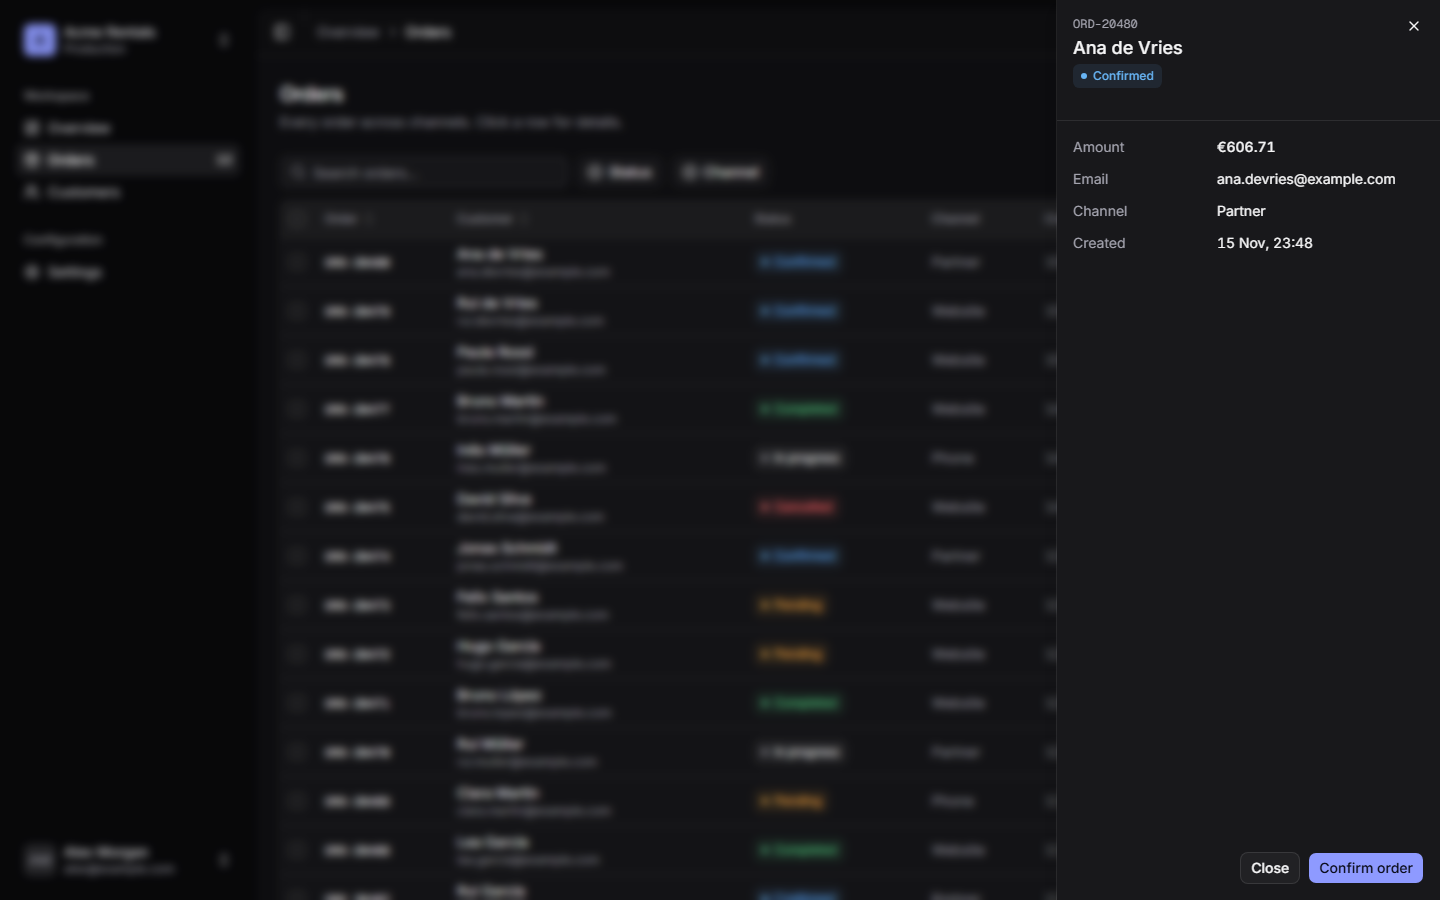
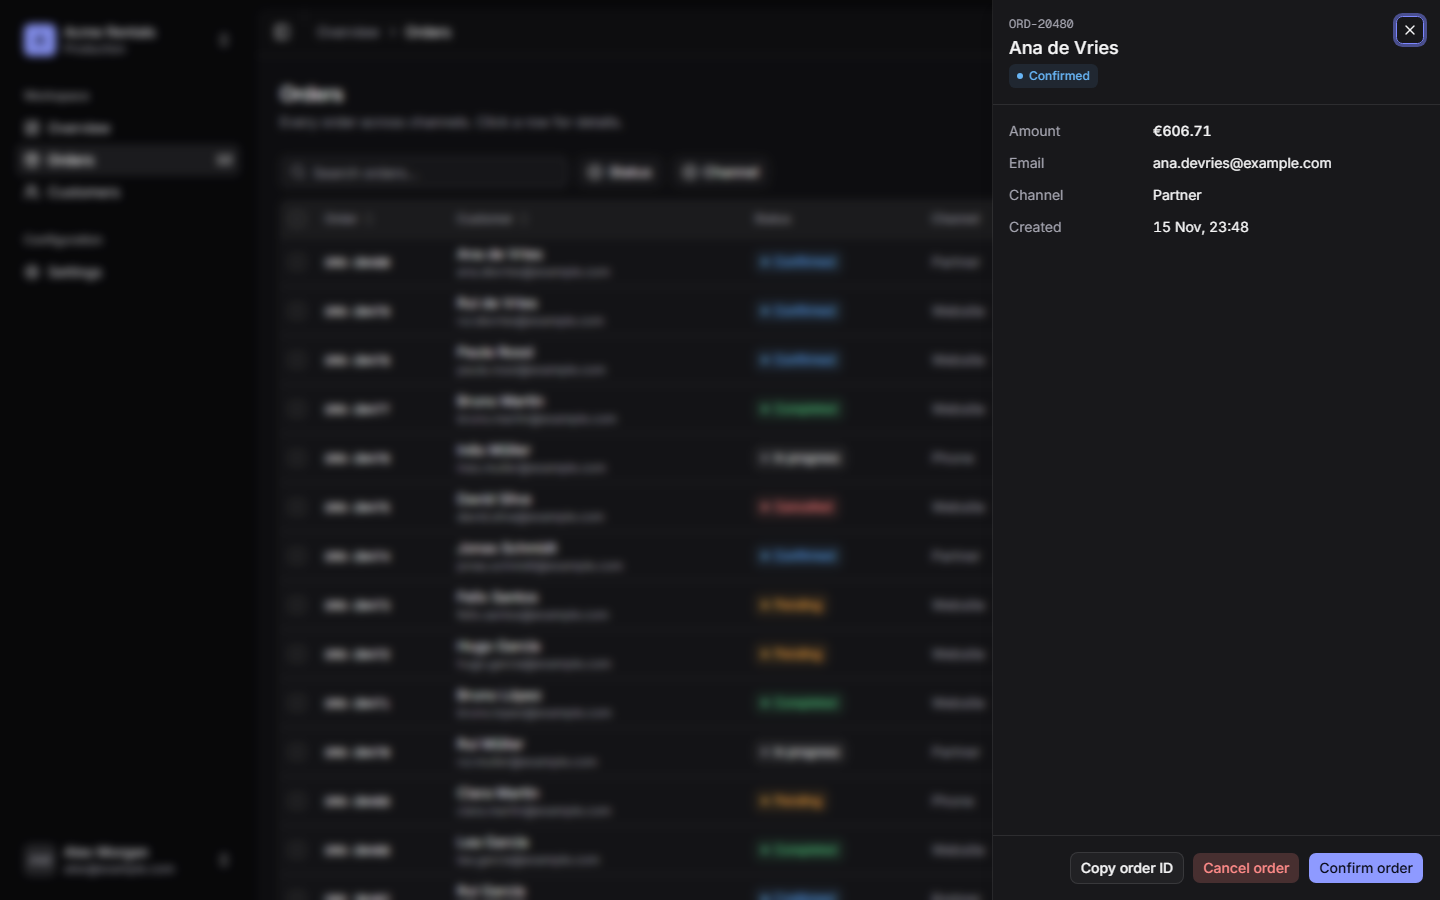
chore: release v0.2.0, screenshots in check:mobile, README for mobile, Labels and tag URL (#11)

diff --git a/tests/screenshots.spec.ts b/tests/screenshots.spec.ts
@@ -1,0 +1,94 @@
+import { expect, test, type Page } from "@playwright/test"
+
+const OUT = "docs/screenshots"
+const schemes = ["light", "dark"] as const
+
+// Waits for chart/sheet animations and web fonts so the captures are stable.
+async function settle(page: Page) {
+  await page.evaluate(() => document.fonts.ready)
+  await page.waitForTimeout(1000)
+}
+
+async function shot(page: Page, name: string, scheme: string) {
+  await settle(page)
+  await page.screenshot({ path: `${OUT}/${name}-${scheme}.png` })
+}
+
+for (const scheme of schemes) {
+  test.describe(`screenshots (${scheme})`, () => {
+    test.use({ colorScheme: scheme })
+
+    test.describe("Celular 375x812", () => {
+      test.use({ viewport: { width: 375, height: 812 } })
+
+      test(`mobile-overview-${scheme}`, async ({ page }) => {
+        await page.goto("/")
+        await expect(page.getByRole("heading", { level: 1 })).toBeVisible()
+        await shot(page, "mobile-overview", scheme)
+      })
+
+      test(`mobile-orders-${scheme}`, async ({ page }) => {
+        await page.goto("/orders")
+        await expect(page.getByRole("list", { name: "Orders" })).toBeVisible()
+        await shot(page, "mobile-orders", scheme)
+      })
+
+      test(`mobile-filters-${scheme}`, async ({ page }) => {
+        await page.goto("/orders")
+        await page.getByRole("button", { name: "Filters" }).click()
+        const panel = page.getByRole("dialog", { name: "Filters" })
+        await expect(panel).toHaveCSS("opacity", "1")
+        await panel.getByRole("checkbox", { name: /Completed/ }).check()
+        await shot(page, "mobile-filters", scheme)
+      })
+
+      test(`mobile-detail-${scheme}`, async ({ page }) => {
+        await page.goto("/orders")
+        await page.getByRole("list", { name: "Orders" }).getByRole("button").first().click()
+        await expect(page.getByRole("dialog")).toHaveCSS("opacity", "1")
+        await shot(page, "mobile-detail", scheme)
+      })
+
+      test(`mobile-new-order-${scheme}`, async ({ page }) => {
+        await page.goto("/orders/new")
+        await expect(page.getByRole("heading", { level: 1 })).toBeVisible()
+        await shot(page, "mobile-new-order", scheme)
+      })
+
+      test(`mobile-quick-order-${scheme}`, async ({ page }) => {
+        await page.goto("/quick-order")
+        await expect(page.getByRole("heading", { level: 1, name: "Choose customer" })).toBeVisible()
+        await shot(page, "mobile-quick-order", scheme)
+      })
+    })
+
+    test.describe("Desktop 1440x900", () => {
+      test.use({ viewport: { width: 1440, height: 900 } })
+
+      test(`overview-${scheme}`, async ({ page }) => {
+        await page.goto("/")
+        await expect(page.getByRole("heading", { level: 1 })).toBeVisible()
+        await shot(page, "overview", scheme)
+      })
+
+      test(`orders-${scheme}`, async ({ page }) => {
+        await page.goto("/orders")
+        await expect(page.getByRole("table", { name: "Orders" })).toBeVisible()
+        await shot(page, "orders", scheme)
+      })
+
+      test(`new-order-${scheme}`, async ({ page }) => {
+        await page.goto("/orders/new")
+        await expect(page.getByRole("heading", { level: 1 })).toBeVisible()
+        await shot(page, "new-order", scheme)
+      })
+
+      test(`order-sheet-${scheme}`, async ({ page }) => {
+        await page.goto("/orders")
+        await page.getByRole("table", { name: "Orders" }).getByRole("row").nth(1).click()
+        await expect(page.getByRole("dialog")).toHaveCSS("opacity", "1")
+        await shot(page, "order-sheet", scheme)
+      })
+    })
+  })
+}

diff --git a/README.md b/README.md
@@ -13,6 +13,41 @@ Origem: [Marcio-RF/algarve4all.com#31](https://github.com/Marcio-RF/algarve4all.
 | ![Orders claro](docs/screenshots/orders-light.png) | ![Orders escuro](docs/screenshots/orders-dark.png) |
 | ![Formulário claro](docs/screenshots/new-order-light.png) | ![Detalhe escuro](docs/screenshots/order-sheet-dark.png) |
 
+## No celular
+
+Abaixo de 768px (o **Celular**) o kit muda de forma: a tabela vira uma **Lista de cartões**, os filtros e a ordenação vão para um painel de baixo, o **Detalhe** abre em tela cheia, os **alvos de toque** passam a 44px e os campos a 16px (sem zoom no iOS). Tudo verificado a 375×812 pelo `pnpm check:mobile`, que também tira as capturas abaixo.
+
+| | Claro | Escuro |
+|---|---|---|
+| Overview | ![Overview claro no celular](docs/screenshots/mobile-overview-light.png) | ![Overview escuro no celular](docs/screenshots/mobile-overview-dark.png) |
+| Orders (Lista de cartões) | ![Orders claro no celular](docs/screenshots/mobile-orders-light.png) | ![Orders escuro no celular](docs/screenshots/mobile-orders-dark.png) |
+| Painel de Filtros | ![Filtros claro no celular](docs/screenshots/mobile-filters-light.png) | ![Filtros escuro no celular](docs/screenshots/mobile-filters-dark.png) |
+| Detalhe | ![Detalhe claro no celular](docs/screenshots/mobile-detail-light.png) | ![Detalhe escuro no celular](docs/screenshots/mobile-detail-dark.png) |
+| New order | ![New order claro no celular](docs/screenshots/mobile-new-order-light.png) | ![New order escuro no celular](docs/screenshots/mobile-new-order-dark.png) |
+| Quick order (Fluxo móvel) | ![Quick order claro no celular](docs/screenshots/mobile-quick-order-light.png) | ![Quick order escuro no celular](docs/screenshots/mobile-quick-order-dark.png) |
+
+### Blocos do celular
+
+- **`DataTable` + `DataTableToolbar`** (`@backoffice/data-table`): no celular a tabela é uma Lista de cartões. Cada coluna escolhe o seu lugar no cartão com `meta.mobile` (`"title"`, `"subtitle"`, `"status"` ou `"value"`); as colunas sem slot não aparecem. A `DataTableToolbar` mantém a pesquisa sempre visível e leva os filtros por faceta (`filters`) e o *Sort by* (`sortColumns`) para o painel **Filters**, que aplica as escolhas na hora e mostra "View N results". A partir de 768px volta aos chips, à densidade e às colunas.
+- **`DetailSheet`** (`@backoffice/data-table`): o Detalhe de um registo. Lateral a partir de 768px, tela cheia no celular. Compõe-se com `DetailSheetHeader`, `DetailSheetBody` e `DetailSheetFooter`.
+- **`MobileFlow`** (`@backoffice/mobile-flow`): o Fluxo móvel, um layout de tela cheia (`dvh`) sem sidebar para tarefas feitas no celular. Compõe-se com `MobileFlowHeader` (voltar, título do passo, slot à direita), `MobileFlowContent` (rola) e `MobileFlowActions` (barra de ação fixa em baixo, com a área segura). É só layout: o estado dos passos é da página. O exemplo está em *Quick order* (`@backoffice/examples`).
+
+## Rótulos
+
+Todo texto visível de um bloco vem de um objeto de **Rótulos** com valores padrão em inglês. Cada bloco aceita uma prop `labels` com substituições parciais, que se fundem com o padrão; o que não for passado fica como está:
+
+```tsx
+<DataTableToolbar
+  table={table}
+  density={density}
+  onDensityChange={setDensity}
+  search={{ label: "Pesquisar encomendas" }}
+  labels={{ filters: "Filtros", clear: "Limpar", showResults: (n) => `Ver ${n} resultados` }}
+/>
+```
+
+Os tipos e os padrões são exportados junto de cada bloco (`DataTableToolbarLabels` / `defaultDataTableToolbarLabels`, `DetailSheetLabels`, `MobileFlowLabels`, …). A página `/fixtures` mostra os blocos em português.
+
 ## Decisões
 
 | Tema | Decisão |
@@ -25,7 +60,7 @@ Origem: [Marcio-RF/algarve4all.com#31](https://github.com/Marcio-RF/algarve4all.
 | Navegação | Sidebar *inset* à esquerda que recolhe para ícones (`Ctrl/⌘+B`), seletor de workspace/ambiente no topo e utilizador no rodapé. Cabeçalho com breadcrumbs e command menu (`Ctrl/⌘+K`). Sem topbar de navegação. |
 | Gráficos | shadcn charts (Recharts). Uma série = uma cor (o acento), sem legenda; tooltip com crosshair; rótulos diretos nas barras; nada de donuts ou bolhas decorativos. |
 | Acessibilidade | WCAG 2.1 AA: todos os pares texto/fundo do tema ≥ 4,5:1 nos dois modos (verificado por script); skip link; `aria-current` na navegação; `aria-sort` nas colunas; estados nunca só por cor (ponto + texto, seta + sinal). |
-| Idioma | A interface dos admins é em inglês. |
+| Idioma | O idioma da interface é definido por projeto. Os blocos trazem os **Rótulos** (todos os textos visíveis) em inglês por padrão; cada projeto troca os que precisar (ver **Rótulos**). |
 
 ## Usar noutro projeto
 
@@ -35,20 +70,21 @@ O projeto precisa de Next.js com App Router, Tailwind v4 e shadcn inicializado (
 
    ```json
    "registries": {
-     "@backoffice": "https://raw.githubusercontent.com/Marcio-RF/backoffice-kit/main/public/r/{name}.json"
+     "@backoffice": "https://raw.githubusercontent.com/Marcio-RF/backoffice-kit/v0.2.0/public/r/{name}.json"
    }
    ```
 
-   O registry é servido direto do branch `main`: o que for commitado em `public/r/` fica disponível. Para fixar uma versão, troque `main` por uma tag ou commit. Para testar mudanças antes do push, corra `pnpm dev` neste repositório e use `http://localhost:3000/r/{name}.json`.
+   O URL com a tag (`v0.2.0`) fixa a versão: o que instalar hoje é o que instalará amanhã. Quem quiser sempre a última versão troca `v0.2.0` por `main`, que serve direto o que for commitado em `public/r/`. Para testar mudanças antes do push, corra `pnpm dev` neste repositório e use `http://localhost:3000/r/{name}.json`.
 
 2. Instale o que precisar:
 
    ```bash
    pnpm dlx shadcn@latest add @backoffice/theme        # só o tema
    pnpm dlx shadcn@latest add @backoffice/shell        # shell completo (inclui o tema e substitui app/layout.tsx)
-   pnpm dlx shadcn@latest add @backoffice/data-table   # tabela com filtros
+   pnpm dlx shadcn@latest add @backoffice/data-table   # tabela com filtros, Lista de cartões, DataTableToolbar e DetailSheet
    pnpm dlx shadcn@latest add @backoffice/form-layout  # secções de formulário + barra de ações
    pnpm dlx shadcn@latest add @backoffice/dashboard    # KPI, sparkline, estado vazio
+   pnpm dlx shadcn@latest add @backoffice/mobile-flow  # Fluxo móvel: tela cheia sem sidebar, para tarefas no celular
    pnpm dlx shadcn@latest add @backoffice/examples     # as páginas de exemplo deste protótipo
    ```
 
@@ -64,7 +100,7 @@ pnpm dev                 # protótipo em http://localhost:3000
 pnpm exec shadcn build   # regenera public/r/*.json a partir de registry.json
 pnpm build
 pnpm exec playwright install chromium   # uma vez, para o check:mobile
-pnpm check:mobile        # build + start + Playwright a 375px
+pnpm check:mobile        # build + start + Playwright a 375px; também refaz as 18 capturas em docs/screenshots
 python scripts/check-contrast.py src/app/globals.css   # contraste AA dos tokens, claro e escuro
 ```
 
@@ -76,7 +112,8 @@ Ao alterar um bloco, edite o código em `src/`, confira se o item correspondente
 src/app/layout.tsx            fontes, ThemeProvider, Toaster      → @backoffice/shell
 src/app/(app)/layout.tsx      SidebarProvider + sidebar + header  → @backoffice/shell
 src/components/shell/         sidebar, header, ⌘K, page header    → @backoffice/shell
-src/components/data-table/    DataTable, filtros, skeleton        → @backoffice/data-table
+src/components/data-table/    DataTable, toolbar, filtros, DetailSheet → @backoffice/data-table
+src/components/mobile-flow/   MobileFlow (Fluxo móvel)            → @backoffice/mobile-flow
 src/components/forms/         FormSection, FormActions            → @backoffice/form-layout
 src/components/dashboard/     KpiCard, Sparkline, gráficos        → @backoffice/dashboard / examples
 src/app/(app)/**/page.tsx     páginas de exemplo                  → @backoffice/examples
@@ -88,6 +125,6 @@ src/app/(app)/**/page.tsx     páginas de exemplo                  → @backoffi
 - Todo o estado leva texto ou ícone além da cor (`StatusBadge`, delta dos KPIs).
 - Valores numéricos alinham à direita e usam `tabular-nums`; IDs usam `font-mono`.
 - Uma página = `PageContainer` + `PageHeader` (título, descrição curta, ações à direita).
-- Tabelas: pesquisa + filtros em chips por cima, detalhe num `Sheet` lateral, ações da linha no menu `⋯`.
+- Tabelas: pesquisa + filtros em chips por cima (num painel de baixo no celular), detalhe num `DetailSheet`, ações da linha no menu `⋯`.
 - Formulários: secções `FormSection`, erros específicos ("Enter a valid email address, like name@example.com"), foco no primeiro campo inválido, ações numa barra fixa em baixo.
 - Gráficos: um eixo y, sem legendas para uma série só, tooltip sempre.
